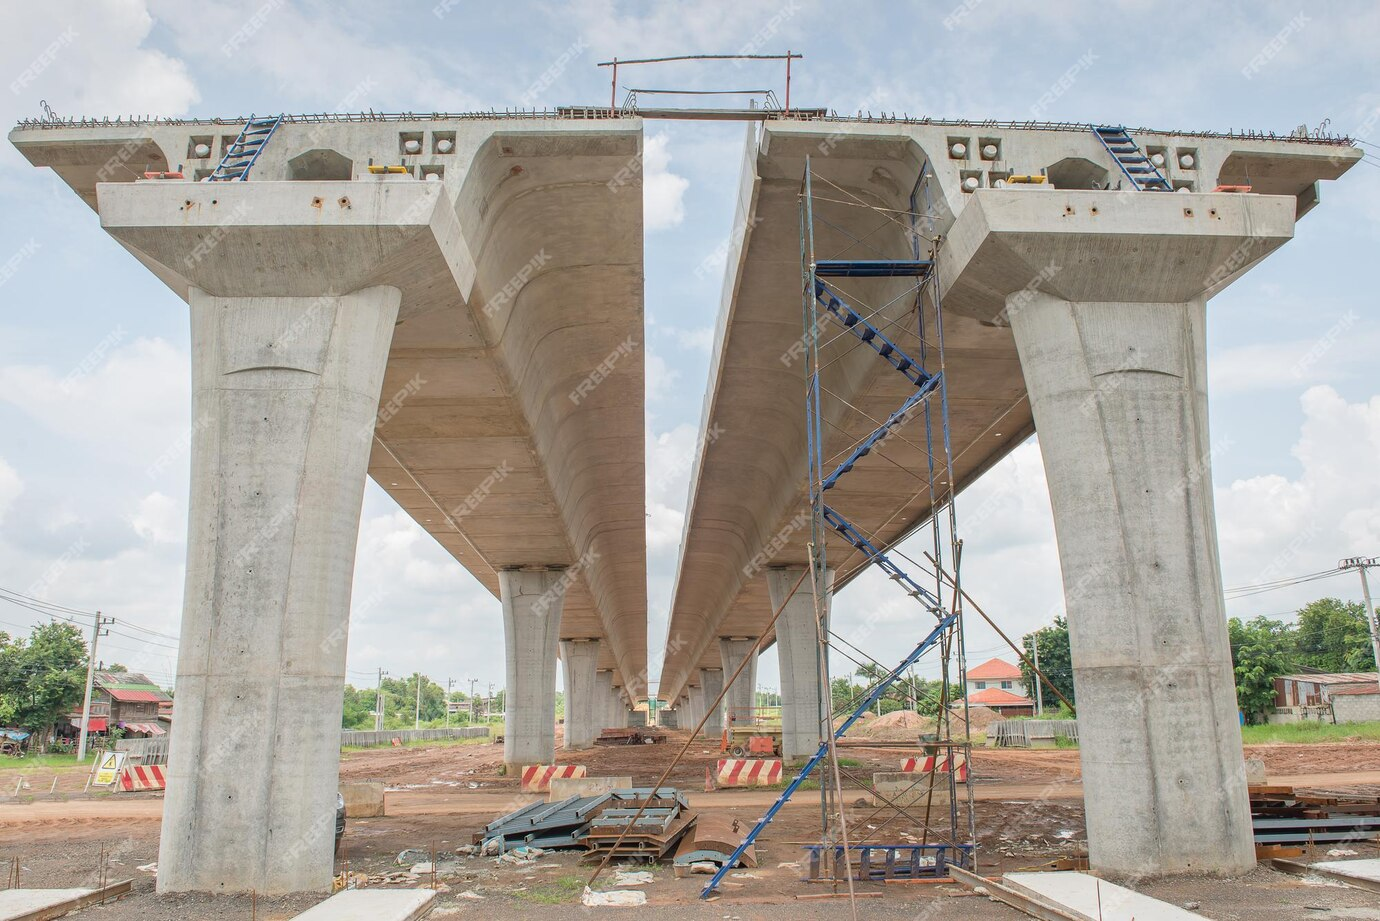
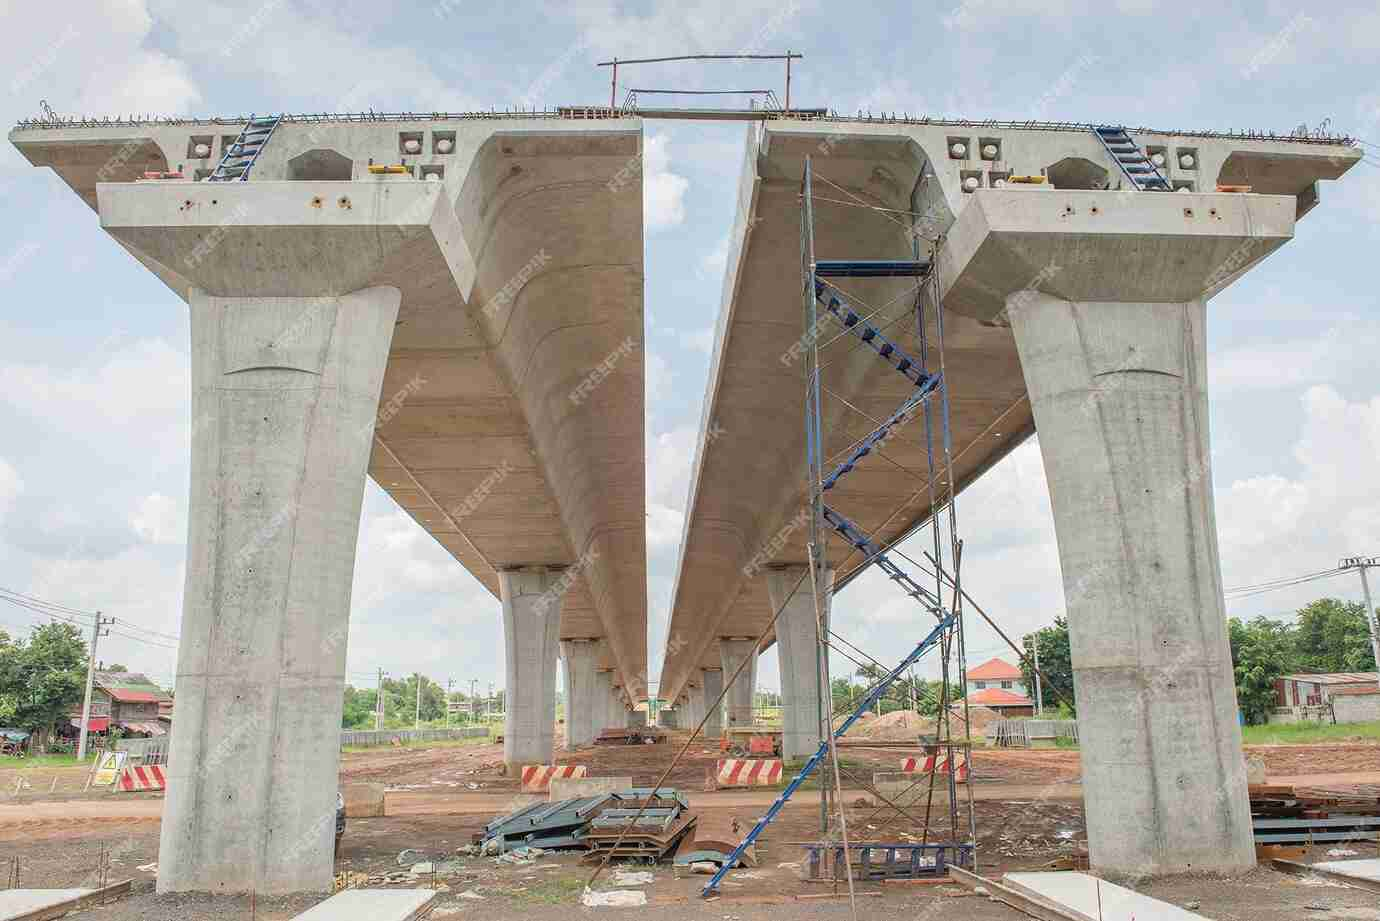
reduce image quality

diff --git a/index.html b/index.html
@@ -17,8 +17,7 @@
     <link rel="stylesheet" href="https://cdnjs.cloudflare.com/ajax/libs/font-awesome/6.4.0/css/all.min.css">
     <link rel="stylesheet" href="https://cdnjs.cloudflare.com/ajax/libs/aos/2.3.4/aos.css">
     <link rel="stylesheet" href="https://cdn.jsdelivr.net/npm/bootstrap-icons@1.11.3/font/bootstrap-icons.min.css">
-    <!-- Isotope Library -->
-    <script src="https://unpkg.com/isotope-layout@3/dist/isotope.pkgd.min.js"></script>
+    
 </head>
 <body>
 
@@ -385,6 +384,8 @@
   <script src="./scripts/script.js" defer></script>
   <script src="./scripts/isotope.js" defer></script>
   <script src="https://cdnjs.cloudflare.com/ajax/libs/aos/2.3.4/aos.js"></script>
+  <!-- Isotope Library -->
+  <script src="https://unpkg.com/isotope-layout@3/dist/isotope.pkgd.min.js"></script>
     <script>
         AOS.init();
     </script>

diff --git a/scripts/script.js b/scripts/script.js
@@ -25,11 +25,11 @@ document.addEventListener("DOMContentLoaded", function () {
 });
 
 
-document.addEventListener('scroll', function () {
-    const backToTop = document.querySelector('.back-to-top');
-    if (window.scrollY > 100) {
-      backToTop.classList.add('active');
-    } else {
-      backToTop.classList.remove('active');
-    }
-  });
+// document.addEventListener('scroll', function () {
+//     const backToTop = document.querySelector('.back-to-top');
+//     if (window.scrollY > 100) {
+//       backToTop.classList.add('active');
+//     } else {
+//       backToTop.classList.remove('active');
+//     }
+//   });
